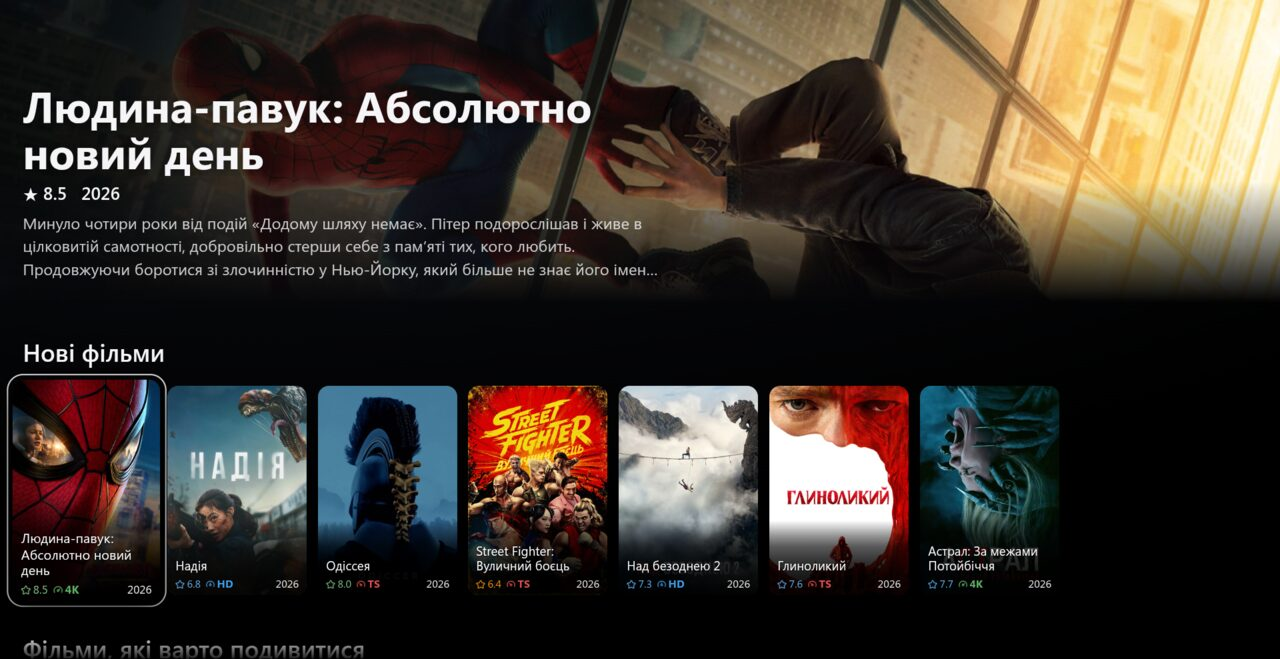
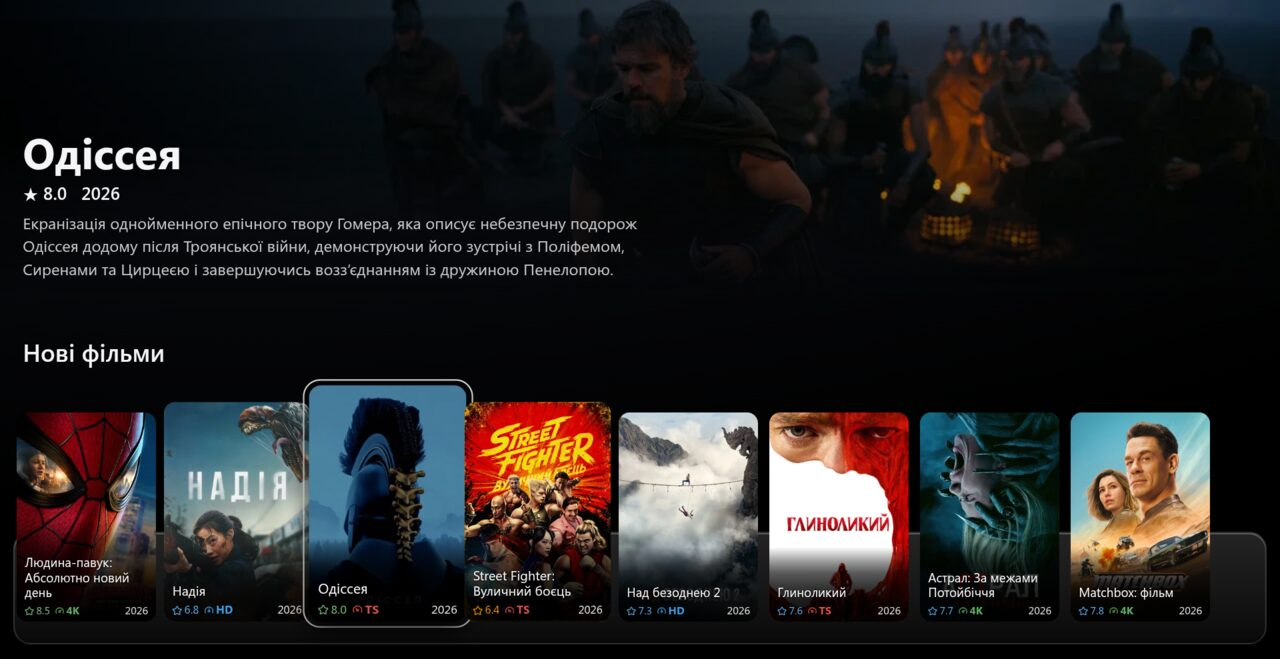
New look: glass menu pills, floating header bar, cast dock, dock-style home rows
- side menu: every item is its own glass pill (solid tiles in Plex)
- header: a floating glass bar like a macOS menu bar; home and card stills
  now reach under it, so the glass shows the picture
- movie card: a centred dock of the cast (focused photo grows, name and role
  under the dock, Enter opens the actor); Down from the card buttons goes to
  the nearest photo
- home rows as a dock: glass shelf, the focused card and its neighbours grow
  (wide cards less), focused one on top

diff --git a/plugin/online-ui.js b/plugin/online-ui.js
@@ -723,7 +723,93 @@
         if (play && last && last.episode) {
             play.textContent = T('online_ui_continue') + ' · ' + (last.season ? 'S' + last.season + ' ' : '') + 'E' + last.episode;
         }
+
+        buildDock(event, fs);
     }
+
+    /* A macOS-like dock of the cast under the card's buttons: round photos, the focused one grows and shows
+     * name and role, its neighbours grow a little. The cast comes with the card (data.persons.cast), Enter opens
+     * the actor the way Lampa itself does. Inserted inside the `complite` handler, i.e. before Lampa collects
+     * the card's elements for the remote. */
+    function buildDock(event, fs) {
+        var body = fs.querySelector('.full-start-new__body');
+        var persons = event.data && event.data.persons;
+        var cast = ((persons && persons.cast) || []).filter(function (p) { return p && p.profile_path; }).slice(0, 12);
+        if (!body || !cast.length) return;
+
+        var dock = el('div', 'oui-dock');
+        cast.forEach(function (person) {
+            var item = el('div', 'oui-dock__item selector');
+            var img = el('img');
+            img.alt = '';
+            img.src = Lampa.TMDB.image('t/p/w185' + person.profile_path);
+            item.appendChild(img);
+            var label = el('div', 'oui-dock__label');
+            label.appendChild(el('div', 'oui-dock__name', person.name || ''));
+            if (person.character) label.appendChild(el('div', 'oui-dock__role', person.character));
+            item.appendChild(label);
+            $(item).on('hover:enter', function () {
+                Lampa.Activity.push({
+                    url: '', title: Lampa.Lang.translate('title_person'), component: 'actor',
+                    id: person.id, source: (event.object && event.object.source) || 'tmdb'
+                });
+            });
+            dock.appendChild(item);
+        });
+        /* its own full-width line inside the card's first block (so Lampa collects it for the remote),
+           the dock itself centred on the screen */
+        var wrap = el('div', 'oui-dock-wrap');
+        wrap.appendChild(dock);
+        body.appendChild(wrap);
+    }
+
+    /* home rows as a dock: the cards next to the focused one grow a little (class oui-near) */
+    document.addEventListener('hover:focus', function (event) {
+        var card = event.target;
+        if (!card || !card.classList || !card.classList.contains('card')) return;
+        for (var i = 0; i < spots.length; i++) {
+            if (!spots[i].host.contains(card)) continue;
+            var old = spots[i].host.querySelectorAll('.card.oui-near');
+            for (var j = 0; j < old.length; j++) old[j].classList.remove('oui-near');
+            var prev = card.previousElementSibling, next = card.nextElementSibling;
+            if (prev && prev.classList.contains('card')) prev.classList.add('oui-near');
+            if (next && next.classList.contains('card')) next.classList.add('oui-near');
+        }
+    }, true);
+
+    /* The dock is centred on the screen, so from the wide "play" pill on the left Lampa's spatial navigation
+     * finds nothing straight below and jumps to the next section. Down on a card button therefore goes to the
+     * dock item nearest horizontally. Capturing on window runs before Lampa's own key handling. */
+    window.addEventListener('keydown', function (event) {
+        if (event.keyCode !== 40 || !isOn()) return;
+        var focused = document.querySelector('.oui-fs .full-start-new__buttons .focus');
+        var fs = focused && focused.closest ? focused.closest('.oui-fs') : null;
+        var items = fs ? fs.querySelectorAll('.oui-dock__item') : [];
+        if (!items.length) return;
+        var from = focused.getBoundingClientRect();
+        var x = from.left + from.width / 2;
+        var best = null, gap = Infinity;
+        for (var i = 0; i < items.length; i++) {
+            var r = items[i].getBoundingClientRect();
+            var d = Math.abs(r.left + r.width / 2 - x);
+            if (d < gap) { gap = d; best = items[i]; }
+        }
+        event.preventDefault();
+        event.stopImmediatePropagation();
+        Lampa.Controller.collectionFocus(best, fs);
+    }, true);
+
+    /* neighbours of the focused dock item grow a little; leaving the dock resets them */
+    document.addEventListener('hover:focus', function (event) {
+        var docks = document.querySelectorAll('.oui-dock');
+        for (var d = 0; d < docks.length; d++) {
+            var items = docks[d].children;
+            for (var i = 0; i < items.length; i++) {
+                var near = items[i] !== event.target && (items[i].nextSibling === event.target || items[i].previousSibling === event.target);
+                items[i].classList.toggle('oui-dock__item--near', near);
+            }
+        }
+    }, true);
 
     /* ---- home screen (component `main`): a large header showing the card the remote is on ----
      * Lampa keeps a card's data on its element (card.card_data: title, dates, backdrop, rating, overview).
@@ -828,7 +914,8 @@
     function panelsCss() {
         var g = 'body.oui-on';
         var sheets = [g + ' .settings .settings__content', g + ' .selectbox .selectbox__content'];
-        var panels = sheets.concat([g + ' .wrap__left .menu', g + ' .modal .modal__content']);
+        /* the header capsule is glass too; the side menu is not a panel any more: each item is its own pill */
+        var panels = sheets.concat([g + ' .modal .modal__content', g + ' .head .head__body']);
         var lift = '0 1.6em 3.2em rgba(0, 0, 0, 0.55)';
         return [
             panels.join(', ') + ' { background: rgba(30, 30, 34, 0.84) !important; border: 1px solid rgba(255, 255, 255, 0.12); ' +
@@ -842,12 +929,20 @@
                 '-webkit-box-shadow: inset 0 1px 0 rgba(255, 255, 255, 0.16), ' + lift + '; box-shadow: inset 0 1px 0 rgba(255, 255, 255, 0.16), ' + lift + '; }',
             g + ' .settings__head, ' + g + ' .selectbox__head { border-bottom-color: rgba(255, 255, 255, 0.1) !important; }',
             g + ' .settings-folder, ' + g + ' .settings-param, ' + g + ' .selectbox-item { margin: 0 0.6em; -webkit-border-radius: 1em; border-radius: 1em; }',
-            /* side menu: a floating column instead of a full-height strip */
-            g + ' .wrap__left .menu { margin: 0.6em 0 0.6em 0.6em; padding: 0.6em 0.6em 0.6em 0; -webkit-border-radius: 1.6em; border-radius: 1.6em; }',
-            g + ' .menu__item { -webkit-border-radius: 1em; border-radius: 1em; }',
+            /* side menu: no strip behind it, every item is its own glass pill (focus colour comes from the theme) */
+            g + ' .wrap__left .menu { background: transparent; padding: 0.6em 0.4em 0.6em 0.6em; }',
+            g + ' .wrap__left .menu__item { margin: 0 0 0.5em; padding: 0.75em 1.3em; -webkit-border-radius: 2em; border-radius: 2em; ' +
+                'background-color: rgba(255, 255, 255, 0.07); border: 1px solid rgba(255, 255, 255, 0.1); ' +
+                '-webkit-box-shadow: inset 0 1px 0 rgba(255, 255, 255, 0.16), 0 0.4em 1em rgba(0, 0, 0, 0.25); ' +
+                'box-shadow: inset 0 1px 0 rgba(255, 255, 255, 0.16), 0 0.4em 1em rgba(0, 0, 0, 0.25); }',
             g + ' .modal .modal__content { -webkit-border-radius: 1.6em; border-radius: 1.6em; }',
-            /* header buttons as round glass buttons */
-            g + ' .head__action { -webkit-border-radius: 50%; border-radius: 50%; background-color: rgba(255, 255, 255, 0.08); margin-left: 0.4em; }',
+            /* header as a floating glass capsule, like a macOS menu bar: smaller title, buttons and clock */
+            g + ' .head .head__body { margin: 0.55em 0.9em 0; padding: 0.3em 0.8em 0.3em 0.6em; -webkit-border-radius: 1.6em; border-radius: 1.6em; }',
+            g + ' .head__logo-icon { width: 2.1em; margin-right: 0.8em; }',
+            g + ' .head__title { font-size: 1.3em; font-weight: 600; }',
+            g + ' .head__action { width: 2.3em; height: 2.3em; padding: 0.5em; margin-left: 0.5em; -webkit-border-radius: 50%; border-radius: 50%; ' +
+                'background-color: rgba(255, 255, 255, 0.08); }',
+            g + ' .head__time { font-size: 0.8em; margin-left: 1em; margin-top: 0; }',
             /* search: glass keys, white focus, sources and history as pills */
             g + ' .simple-keyboard .hg-button { -webkit-border-radius: 1em; border-radius: 1em; background: rgba(255, 255, 255, 0.08); ' +
                 'border: 1px solid rgba(255, 255, 255, 0.08); -webkit-box-shadow: inset 0 1px 0 rgba(255, 255, 255, 0.14); box-shadow: inset 0 1px 0 rgba(255, 255, 255, 0.14); }',
@@ -903,9 +998,33 @@
             playerCss(),
 
             /* ---- home screen header ---- */
-            '.oui-spot { position: relative; height: 42vh; overflow: hidden; }',
+            '.oui-spot { position: relative; height: 42vh; }',
+            /* the still reaches up under the glass header bar (which is otherwise over an empty page) */
+            '.oui-spot__art { top: -6em !important; }',
             /* the rows share the screen with the header: cards are sized in em, so a smaller font scales them */
             '.oui-main > .scroll .items-line__body { font-size: 0.72em; }',
+            /* rows as a dock: a glass shelf under the cards, the focused card grows from its bottom edge and
+               its neighbours a little; room above for the growth, the shelf behind the lower part of the cards */
+            '.oui-main .items-line__body { position: relative; }',
+            '.oui-main .items-line__body::before { content: ""; position: absolute; left: 1.2em; right: 1.2em; bottom: 0.3em; height: 42%; ' +
+                '-webkit-border-radius: 1.6em; border-radius: 1.6em; pointer-events: none; ' +
+                'background: -webkit-linear-gradient(top, rgba(255, 255, 255, 0.14), rgba(255, 255, 255, 0.04)); ' +
+                'background: linear-gradient(to bottom, rgba(255, 255, 255, 0.14), rgba(255, 255, 255, 0.04)); ' +
+                'border: 1px solid rgba(255, 255, 255, 0.14); ' +
+                '-webkit-box-shadow: inset 0 1px 0 rgba(255, 255, 255, 0.25), 0 1em 2.4em rgba(0, 0, 0, 0.45); ' +
+                'box-shadow: inset 0 1px 0 rgba(255, 255, 255, 0.25), 0 1em 2.4em rgba(0, 0, 0, 0.45); }',
+            '.oui-main .items-line__body > .scroll { position: relative; z-index: 1; }',
+            '.oui-main .items-line__body .scroll--horizontal .scroll__content { padding-top: 2.4em; padding-bottom: 1.4em; }',
+            '.oui-main .card .card__view { -webkit-transform-origin: 50% 100%; transform-origin: 50% 100%; ' +
+                '-webkit-transition: -webkit-transform 0.15s ease-out; transition: transform 0.15s ease-out; }',
+            'body.oui-on .oui-main .card.oui-near .card__view { -webkit-transform: scale(1.05); transform: scale(1.05); }',
+            'body.oui-on .oui-main .card.focus .card__view { -webkit-transform: scale(1.13); transform: scale(1.13); }',
+            /* the focused card always on top of its neighbours; wide 16:9 cards grow less, they are already big */
+            '.oui-main .card { position: relative; }',
+            '.oui-main .card.oui-near { z-index: 2; }',
+            '.oui-main .card.focus { z-index: 3; }',
+            'body.oui-on .oui-main .card--wide.oui-near .card__view { -webkit-transform: scale(1.02); transform: scale(1.02); }',
+            'body.oui-on .oui-main .card--wide.focus .card__view { -webkit-transform: scale(1.06); transform: scale(1.06); }',
             '.oui-spot__art { position: absolute; top: 0; left: 0; right: 0; bottom: 0; ' +
                 '-webkit-mask-image: -webkit-linear-gradient(top, #000 60%, rgba(0, 0, 0, 0) 100%); ' +
                 'mask-image: linear-gradient(to bottom, #000 60%, rgba(0, 0, 0, 0) 100%); }',
@@ -924,7 +1043,7 @@
                 'display: -webkit-box; -webkit-box-orient: vertical; -webkit-line-clamp: 3; overflow: hidden; }',
 
             /* ---- movie/series card ---- */
-            '.oui-fullpage .full-start__background { left: 0; width: 100%; height: 100%; top: 0; ' +
+            '.oui-fullpage .full-start__background { left: 0; width: 100%; height: calc(100% + 6em); top: -6em; ' +
                 '-webkit-mask-image: -webkit-linear-gradient(top, #000 50%, rgba(0, 0, 0, 0) 100%); ' +
                 'mask-image: linear-gradient(to bottom, #000 50%, rgba(0, 0, 0, 0) 100%); ' +
                 '-webkit-mask-size: auto; mask-size: auto; }',
@@ -958,6 +1077,32 @@
             '.oui-fs .full-start-new__buttons .full-start__button.button--play:not(.focus) span { display: inline; }',
             '.oui-fs .full-start-new__buttons .full-start__button.focus { background: #fff; color: #000; ' +
                 '-webkit-transform: scale(1.05); transform: scale(1.05); }',
+            /* the cast dock, centred on the screen */
+            '.oui-fs .full-start-new__body { -webkit-flex-wrap: wrap; flex-wrap: wrap; }',
+            '.oui-dock-wrap { position: relative; width: 100%; text-align: center; margin-top: 1.6em; }',
+            '.oui-dock { display: -webkit-inline-box; display: -webkit-inline-flex; display: inline-flex; text-align: left; ' +
+                '-webkit-box-align: end; -webkit-align-items: flex-end; align-items: flex-end; padding: 0.55em 0.8em; ' +
+                '-webkit-border-radius: 2em; border-radius: 2em; background: rgba(30, 30, 34, 0.6); border: 1px solid rgba(255, 255, 255, 0.12); ' +
+                '-webkit-box-shadow: inset 0 1px 0 rgba(255, 255, 255, 0.18), 0 0.8em 2em rgba(0, 0, 0, 0.4); ' +
+                'box-shadow: inset 0 1px 0 rgba(255, 255, 255, 0.18), 0 0.8em 2em rgba(0, 0, 0, 0.4); }',
+            '@supports ((-webkit-backdrop-filter: blur(1px)) or (backdrop-filter: blur(1px))) {\n.oui-dock { background: rgba(30, 30, 34, 0.35); ' +
+                '-webkit-backdrop-filter: blur(1.6em) saturate(1.8); backdrop-filter: blur(1.6em) saturate(1.8); }\n}',
+            '.oui-dock__item { position: relative; width: 3.8em; height: 3.8em; margin: 0 0.3em; -webkit-border-radius: 50%; border-radius: 50%; ' +
+                '-webkit-transform-origin: 50% 100%; transform-origin: 50% 100%; ' +
+                '-webkit-transition: -webkit-transform 0.15s ease-out; transition: transform 0.15s ease-out; }',
+            '.oui-dock__item > img { width: 100%; height: 100%; object-fit: cover; -webkit-border-radius: 50%; border-radius: 50%; ' +
+                'border: 2px solid rgba(255, 255, 255, 0.25); -webkit-box-shadow: 0 0.3em 0.8em rgba(0, 0, 0, 0.45); box-shadow: 0 0.3em 0.8em rgba(0, 0, 0, 0.45); }',
+            '.oui-dock__item--near { -webkit-transform: scale(1.18); transform: scale(1.18); }',
+            '.oui-dock__item.focus { z-index: 2; -webkit-transform: scale(1.5); transform: scale(1.5); }',
+            '.oui-dock__item.focus > img { border-color: #fff; }',
+            /* the name goes under the dock (above it would cover the buttons) */
+            '.oui-dock__label { display: none; position: absolute; top: 100%; left: 50%; margin-top: 1.1em; padding: 0.25em 0.7em; ' +
+                '-webkit-transform: translateX(-50%); transform: translateX(-50%); white-space: nowrap; text-align: center; font-size: 0.55em; ' +
+                '-webkit-border-radius: 0.8em; border-radius: 0.8em; background: rgba(20, 20, 24, 0.88); color: #fff; border: 1px solid rgba(255, 255, 255, 0.12); }',
+            '.oui-dock__item.focus .oui-dock__label { display: block; }',
+            '.oui-dock__name { font-weight: 700; }',
+            '.oui-dock__role { opacity: 0.7; }',
+
             /* sections under the header: the same glass language as the "Online" screen */
             '.oui-fullpage .full-descr__tag { -webkit-border-radius: 2em; border-radius: 2em; background: rgba(255, 255, 255, 0.12); ' +
                 'border: 1px solid rgba(255, 255, 255, 0.14); -webkit-box-shadow: inset 0 1px 0 rgba(255, 255, 255, 0.25); box-shadow: inset 0 1px 0 rgba(255, 255, 255, 0.25); }',

diff --git a/plugin/plex-theme.js b/plugin/plex-theme.js
@@ -188,12 +188,18 @@
 
         /* menu, settings, lists, dialogs under the new look: solid charcoal sheets with crisp corners, no glass */
         var p = b + '.oui-on';
-        var sheets = [p + ' .settings .settings__content', p + ' .selectbox .selectbox__content', p + ' .wrap__left .menu', p + ' .modal .modal__content'];
+        var sheets = [p + ' .settings .settings__content', p + ' .selectbox .selectbox__content', p + ' .modal .modal__content', p + ' .head .head__body'];
         rules.push(
             sheets.join(', ') + ' { background: ' + C.panel + ' !important; border-color: ' + C.line + '; ' +
                 '-webkit-backdrop-filter: none; backdrop-filter: none; -webkit-border-radius: 0.6em; border-radius: 0.6em; }',
-            p + ' .settings-folder, ' + p + ' .settings-param, ' + p + ' .selectbox-item, ' + p + ' .menu__item { -webkit-border-radius: 0.35em; border-radius: 0.35em; }',
-            p + ' .head__action { background-color: ' + C.raised + '; }'
+            p + ' .settings-folder, ' + p + ' .settings-param, ' + p + ' .selectbox-item { -webkit-border-radius: 0.35em; border-radius: 0.35em; }',
+            /* side menu items: solid charcoal tiles with crisp corners instead of glass pills */
+            p + ' .wrap__left .menu__item { -webkit-border-radius: 0.4em; border-radius: 0.4em; background-color: ' + C.panel + '; ' +
+                'border-color: ' + C.line + '; -webkit-box-shadow: none; box-shadow: none; }',
+            p + ' .head__action { background-color: ' + C.raised + '; }',
+            /* the shelf under the home rows: a flat charcoal plinth */
+            p + ' .oui-main .items-line__body::before { background: rgba(38, 41, 45, 0.9); border-color: ' + C.line + '; ' +
+                '-webkit-border-radius: 0.5em; border-radius: 0.5em; -webkit-box-shadow: none; box-shadow: none; }'
         );
 
         if (focus === 'lift') {
